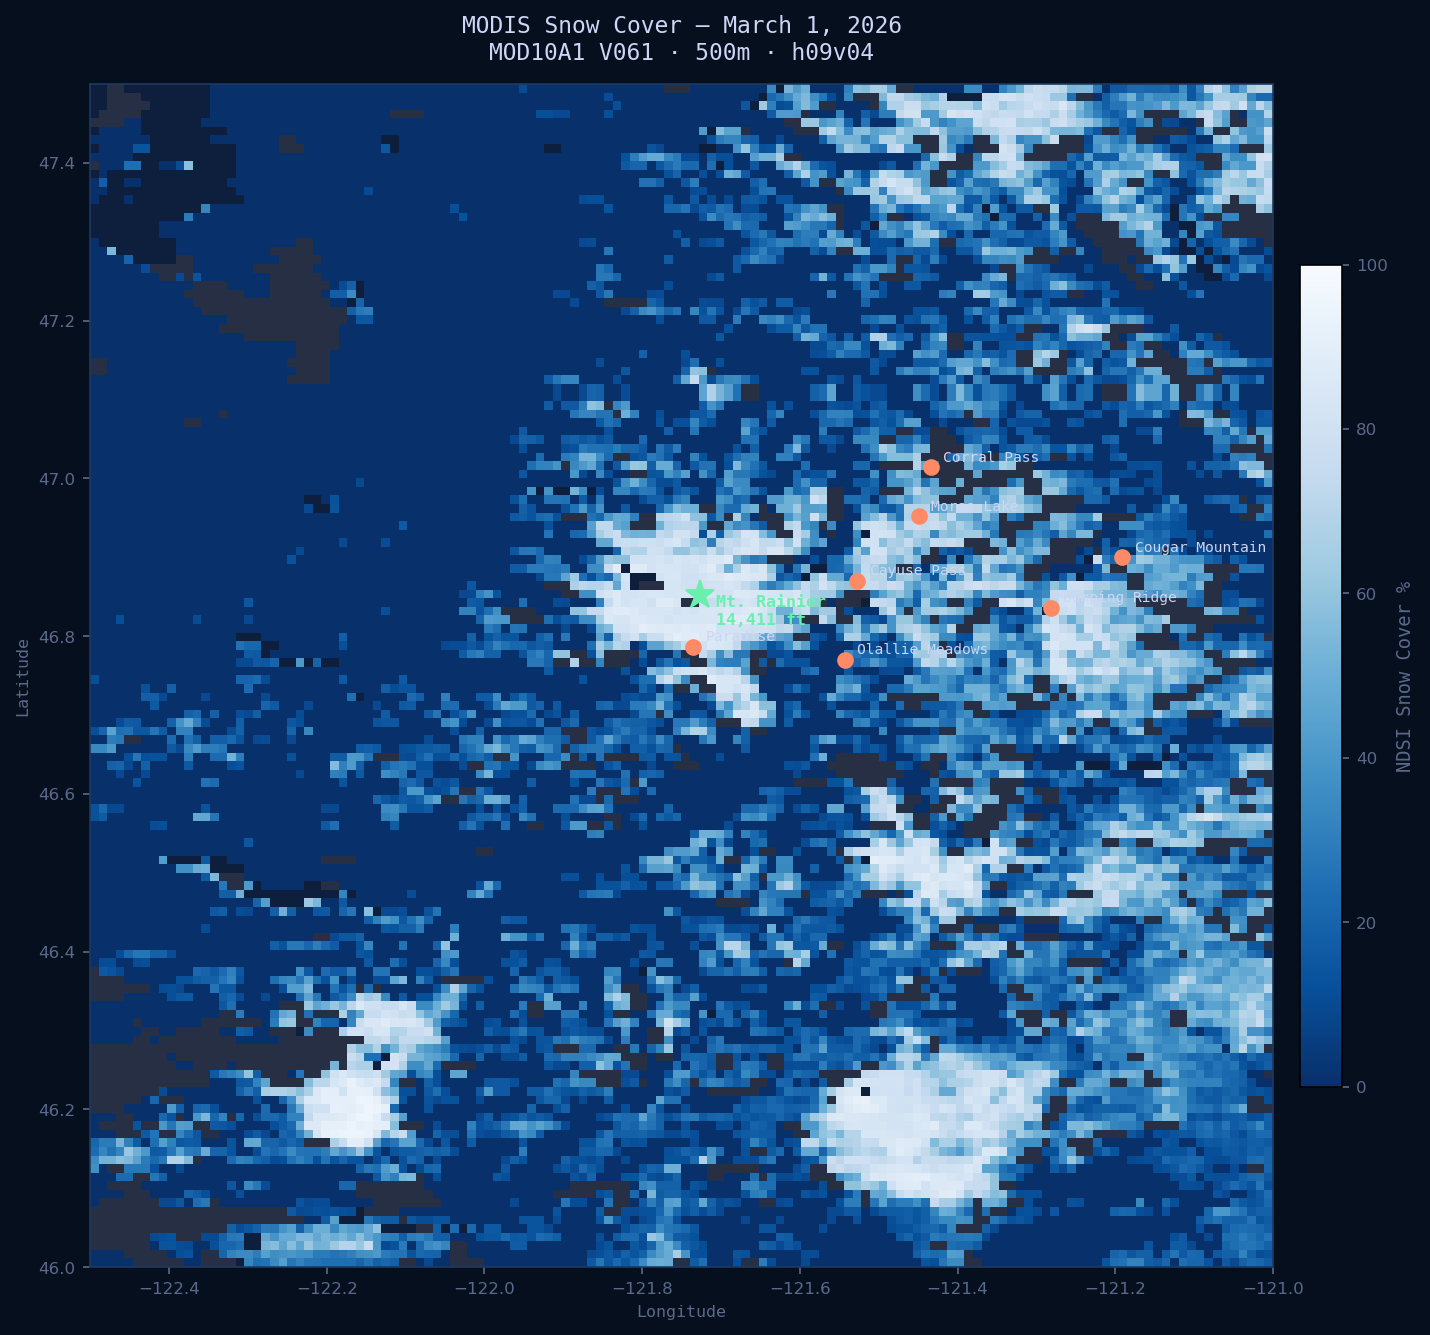
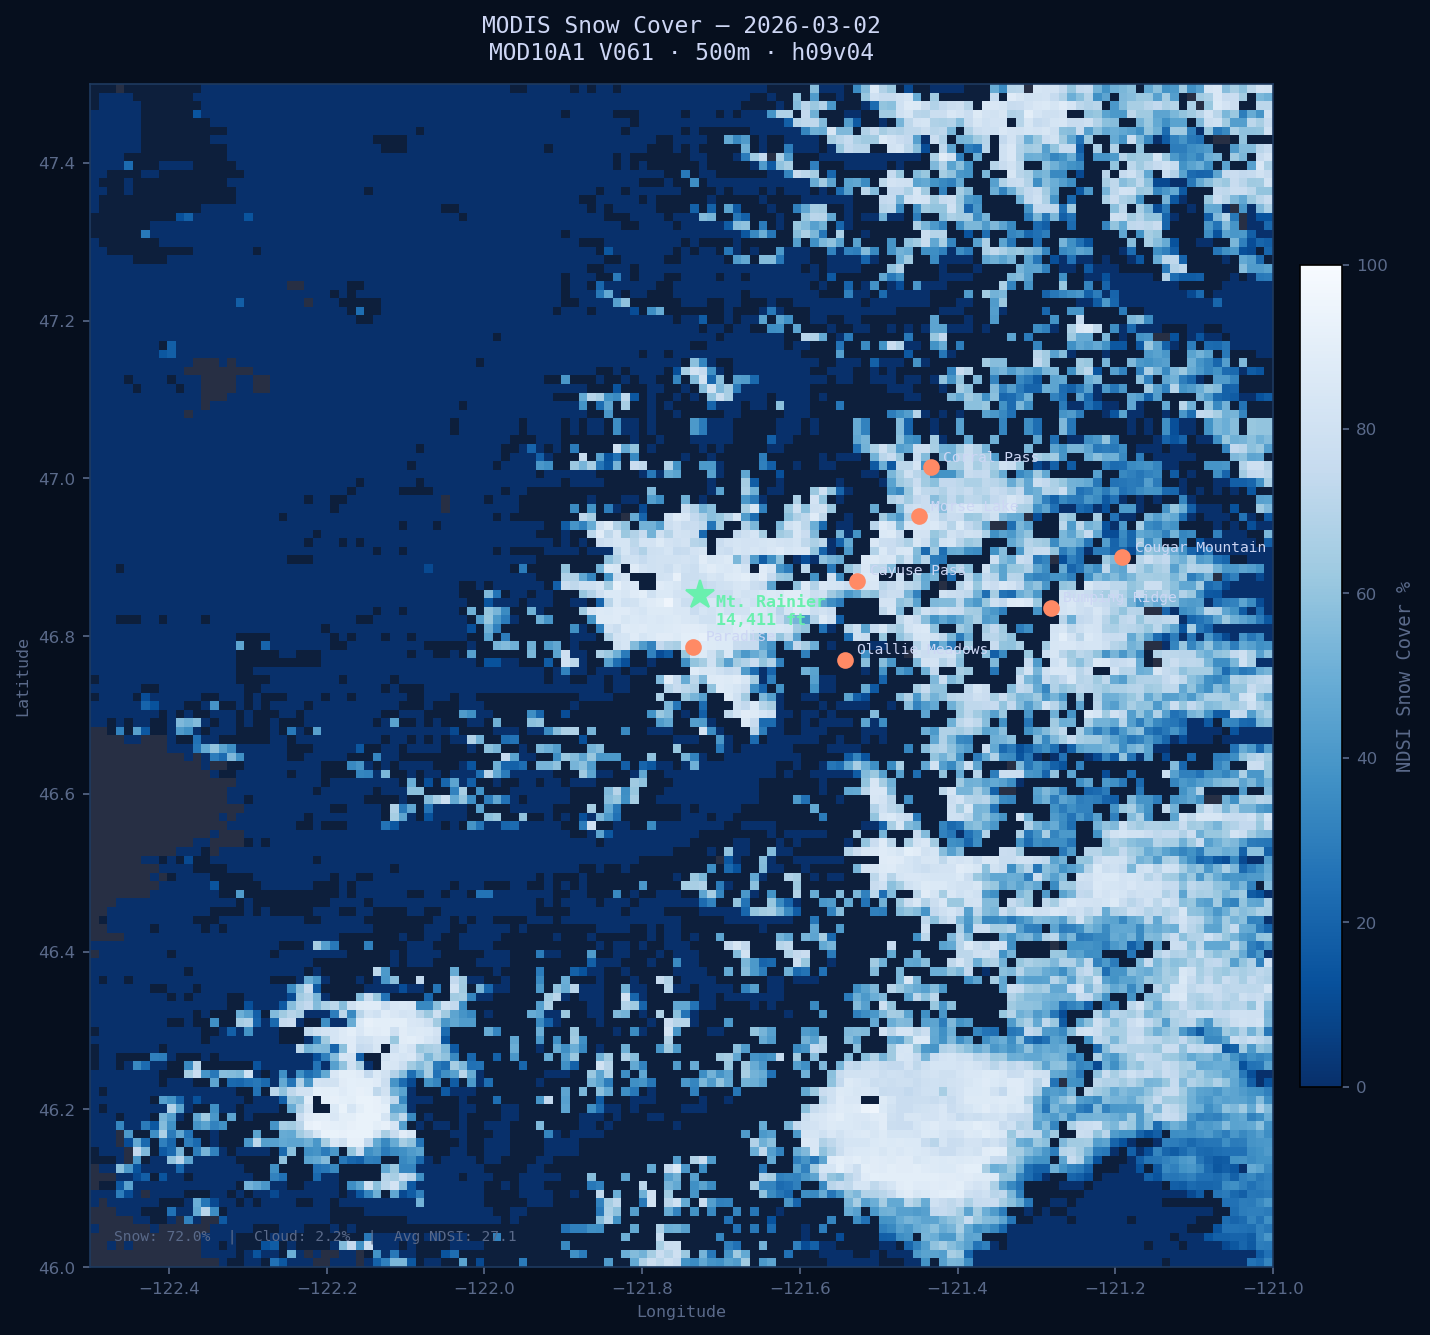
feat: MODIS snow cover automated pipeline, NASA Earthdata auth

diff --git a/src/python/fetch_modis.py b/src/python/fetch_modis.py
@@ -1,0 +1,296 @@
+"""
+fetch_modis.py
+Downloads the latest MODIS MOD10A1 V061 daily snow cover tile (h09v04)
+for the Mt. Rainier area, reprojects to WGS84, clips to Rainier bbox,
+generates a snow cover map PNG, and saves summary stats to JSON.
+
+Auth: NASA Earthdata credentials via C:/Users/<user>/_netrc or ~/.netrc
+CMR search is unauthenticated (public API).
+Authenticated session used only for protected file downloads.
+"""
+
+import json
+import logging
+import netrc
+import requests
+import numpy as np
+import matplotlib.pyplot as plt
+import matplotlib.colors as mcolors
+import rasterio
+from rasterio.warp import calculate_default_transform, reproject, Resampling
+from rasterio.windows import from_bounds
+from datetime import date, timedelta
+from pathlib import Path
+
+logging.basicConfig(level=logging.INFO, format="%(levelname)s  %(message)s")
+LOG = logging.getLogger(__name__)
+
+# ── Config ─────────────────────────────────────────────────────────────────
+CONCEPT_ID   = "C2565093311-NSIDC_CPRD"
+TILE         = "h09v04"
+RAINIER_BBOX = (-122.5, 46.0, -121.0, 47.5)
+
+RAW_DIR  = Path("data/raw/modis")
+PROC_DIR = Path("data/processed/modis")
+OUT_DIR  = Path("outputs")
+
+STATIONS = [
+    ("Paradise",        -121.735, 46.786),
+    ("Morse Lake",      -121.449, 46.952),
+    ("Cayuse Pass",     -121.527, 46.870),
+    ("Corral Pass",     -121.434, 47.014),
+    ("Bumping Ridge",   -121.282, 46.836),
+    ("Olallie Meadows", -121.543, 46.770),
+    ("Cougar Mountain", -121.191, 46.900),
+]
+
+
+def get_credentials():
+    """Read NASA Earthdata credentials from _netrc or .netrc."""
+    for netrc_path in [Path.home() / "_netrc", Path.home() / ".netrc"]:
+        if netrc_path.exists():
+            try:
+                creds = netrc.netrc(str(netrc_path))
+                auth = creds.authenticators("urs.earthdata.nasa.gov")
+                if auth:
+                    LOG.info("Credentials loaded from %s", netrc_path)
+                    return auth[0], auth[2]
+            except Exception as e:
+                LOG.warning("Could not read %s: %s", netrc_path, e)
+    raise FileNotFoundError("No netrc file with urs.earthdata.nasa.gov credentials found")
+
+
+def find_latest_granule(days_back=7):
+    """Search CMR (public, no auth) for most recent MOD10A1 granule over Rainier."""
+    end   = date.today()
+    start = end - timedelta(days=days_back)
+
+    LOG.info("Searching CMR: %s → %s ...", start, end)
+    r = requests.get(
+        "https://cmr.earthdata.nasa.gov/search/granules",
+        params={
+            "concept_id":   CONCEPT_ID,
+            "temporal":     f"{start},{end}",
+            "bounding_box": f"{RAINIER_BBOX[0]},{RAINIER_BBOX[1]},{RAINIER_BBOX[2]},{RAINIER_BBOX[3]}",
+            "page_size":    10,
+        },
+        headers={"Accept": "application/json"},
+    )
+    r.raise_for_status()
+    entries = r.json().get("feed", {}).get("entry", [])
+
+    tile_entries = [e for e in entries if TILE in e.get("title", "")]
+    if not tile_entries:
+        LOG.warning("No granules found for tile %s in last %d days", TILE, days_back)
+        return None, None
+
+    tile_entries.sort(key=lambda e: e["title"], reverse=True)
+    latest = tile_entries[0]
+    LOG.info("Latest granule: %s", latest["title"])
+
+    download_url = None
+    for link in latest.get("links", []):
+        href = link.get("href", "")
+        if "prod-protected" in href and href.endswith(".hdf"):
+            download_url = href
+            break
+
+    return latest["title"], download_url
+
+
+def download_granule(session, url, out_path):
+    """Download HDF file using authenticated requests session."""
+    if out_path.exists():
+        LOG.info("Already downloaded: %s", out_path.name)
+        return True
+
+    LOG.info("Downloading %s ...", url.split("/")[-1])
+    out_path.parent.mkdir(parents=True, exist_ok=True)
+
+    r = session.get(url, stream=True, timeout=120)
+    if r.status_code != 200:
+        LOG.error("Download failed: HTTP %s", r.status_code)
+        return False
+
+    with open(out_path, "wb") as f:
+        for chunk in r.iter_content(chunk_size=8192):
+            f.write(chunk)
+
+    LOG.info("Saved: %s (%.1f MB)", out_path.name, out_path.stat().st_size / 1e6)
+    return True
+
+
+def reproject_to_wgs84(hdf_path, tif_path):
+    """Reproject MODIS sinusoidal projection to WGS84 GeoTIFF."""
+    if tif_path.exists():
+        LOG.info("Already reprojected: %s", tif_path.name)
+        return
+
+    layer = f"HDF4_EOS:EOS_GRID:{hdf_path}:MOD_Grid_Snow_500m:NDSI_Snow_Cover"
+    LOG.info("Reprojecting to WGS84 ...")
+    tif_path.parent.mkdir(parents=True, exist_ok=True)
+
+    with rasterio.open(layer) as src:
+        transform, width, height = calculate_default_transform(
+            src.crs, "EPSG:4326", src.width, src.height, *src.bounds
+        )
+        kwargs = src.meta.copy()
+        kwargs.update({"crs": "EPSG:4326", "transform": transform,
+                       "width": width, "height": height, "driver": "GTiff"})
+
+        with rasterio.open(tif_path, "w", **kwargs) as dst:
+            reproject(
+                source=rasterio.band(src, 1),
+                destination=rasterio.band(dst, 1),
+                src_transform=src.transform,
+                src_crs=src.crs,
+                dst_transform=transform,
+                dst_crs="EPSG:4326",
+                resampling=Resampling.nearest,
+            )
+    LOG.info("Reprojected: %s", tif_path.name)
+
+
+def compute_stats(tif_path, obs_date):
+    """Compute snow cover stats clipped to Rainier bbox."""
+    with rasterio.open(tif_path) as ds:
+        window = from_bounds(*RAINIER_BBOX, ds.transform)
+        data   = ds.read(1, window=window)
+
+    snow_pixels  = data[(data >= 0) & (data <= 100)]
+    cloud_pixels = data[data == 250]
+    total_valid  = len(data[(data != 255) & (data != 239)])
+
+    pct_snow  = round(len(snow_pixels)  / total_valid * 100, 1) if total_valid > 0 else 0
+    pct_cloud = round(len(cloud_pixels) / total_valid * 100, 1) if total_valid > 0 else 0
+    avg_ndsi  = round(float(snow_pixels.mean()), 1) if len(snow_pixels) > 0 else 0
+
+    stats = {
+        "date":         str(obs_date),
+        "tile":         TILE,
+        "pct_snow":     pct_snow,
+        "pct_cloud":    pct_cloud,
+        "avg_ndsi":     avg_ndsi,
+        "snow_pixels":  int(len(snow_pixels)),
+        "cloud_pixels": int(len(cloud_pixels)),
+        "total_pixels": int(total_valid),
+    }
+
+    LOG.info("Snow: %.1f%% | Cloud: %.1f%% | Avg NDSI: %.1f", pct_snow, pct_cloud, avg_ndsi)
+    return stats
+
+
+def make_map(tif_path, stats, obs_date):
+    """Generate dark-themed snow cover map PNG."""
+    with rasterio.open(tif_path) as ds:
+        window = from_bounds(*RAINIER_BBOX, ds.transform)
+        data   = ds.read(1, window=window)
+
+    snow  = np.where((data >= 0) & (data <= 100), data.astype(float), np.nan)
+    cloud = np.where(data == 250, 1.0, np.nan)
+
+    fig, ax = plt.subplots(figsize=(10, 9))
+    fig.patch.set_facecolor("#060f1e")
+    ax.set_facecolor("#060f1e")
+
+    extent = [RAINIER_BBOX[0], RAINIER_BBOX[2], RAINIER_BBOX[1], RAINIER_BBOX[3]]
+
+    cmap_snow = plt.cm.Blues_r.copy()
+    cmap_snow.set_bad(color="#0d1f3c")
+    im = ax.imshow(snow, extent=extent, origin="upper", cmap=cmap_snow,
+                   vmin=0, vmax=100, interpolation="nearest")
+
+    cmap_cloud = mcolors.ListedColormap(["#3a3a4a"])
+    ax.imshow(cloud, extent=extent, origin="upper", cmap=cmap_cloud,
+              alpha=0.6, interpolation="nearest")
+
+    cbar = plt.colorbar(im, ax=ax, fraction=0.03, pad=0.02)
+    cbar.set_label("NDSI Snow Cover %", color="#5a6a8a", fontsize=9, fontfamily="monospace")
+    cbar.ax.yaxis.set_tick_params(color="#5a6a8a")
+    plt.setp(cbar.ax.yaxis.get_ticklabels(), color="#5a6a8a", fontsize=8)
+
+    for name, lon, lat in STATIONS:
+        ax.plot(lon, lat, "o", color="#ff8a65", markersize=7, zorder=5)
+        ax.annotate(name, (lon, lat), textcoords="offset points", xytext=(6, 3),
+                    color="#cdd6f4", fontsize=7, fontfamily="monospace")
+
+    ax.plot(-121.7269, 46.8523, "*", color="#69f0ae", markersize=14, zorder=6)
+    ax.annotate("Mt. Rainier\n14,411 ft", (-121.7269, 46.8523),
+                textcoords="offset points", xytext=(8, -14),
+                color="#69f0ae", fontsize=8, fontfamily="monospace", fontweight="bold")
+
+    ax.text(0.02, 0.02,
+            f"Snow: {stats['pct_snow']}%  |  Cloud: {stats['pct_cloud']}%  |  Avg NDSI: {stats['avg_ndsi']}",
+            transform=ax.transAxes, color="#5a6a8a", fontsize=7,
+            fontfamily="monospace", va="bottom")
+
+    ax.set_title(f"MODIS Snow Cover — {obs_date}\nMOD10A1 V061 · 500m · {TILE}",
+                 color="#cdd6f4", fontsize=11, fontfamily="monospace", pad=12)
+    ax.set_xlabel("Longitude", color="#5a6a8a", fontsize=8, fontfamily="monospace")
+    ax.set_ylabel("Latitude",  color="#5a6a8a", fontsize=8, fontfamily="monospace")
+    ax.tick_params(colors="#5a6a8a", labelsize=8)
+    for spine in ax.spines.values():
+        spine.set_edgecolor("#1e3a5f")
+
+    plt.tight_layout()
+    OUT_DIR.mkdir(exist_ok=True)
+    out_png = OUT_DIR / "modis_snow_cover.png"
+    plt.savefig(out_png, dpi=150, bbox_inches="tight",
+                facecolor="#060f1e", edgecolor="none")
+    plt.close()
+    LOG.info("Map saved: %s", out_png)
+    return out_png
+
+
+def main():
+    LOG.info("=== MODIS Snow Cover Fetch ===")
+
+    # Credentials for download only
+    username, password = get_credentials()
+    LOG.info("Authenticated as: %s", username)
+    session = requests.Session()
+    session.auth = (username, password)
+
+    # Search CMR (no auth needed)
+    title, download_url = find_latest_granule()
+    if not download_url:
+        LOG.error("No download URL found!")
+        raise SystemExit(1)
+
+    # Parse observation date from title e.g. MOD10A1.A2026060 = day 60 of 2026
+    year     = int(title[9:13])
+    doy      = int(title[13:16])
+    obs_date = date(year, 1, 1) + timedelta(days=doy - 1)
+    LOG.info("Observation date: %s", obs_date)
+
+    # Download
+    hdf_path = RAW_DIR / f"MOD10A1.A{year}{doy:03d}.{TILE}.hdf"
+    if not download_granule(session, download_url, hdf_path):
+        raise SystemExit(1)
+
+    # Reproject
+    tif_path = PROC_DIR / f"snow_cover_{obs_date}.tif"
+    reproject_to_wgs84(hdf_path, tif_path)
+
+    # Stats + JSON
+    stats = compute_stats(tif_path, obs_date)
+    PROC_DIR.mkdir(parents=True, exist_ok=True)
+    (PROC_DIR / "modis_latest.json").write_text(json.dumps(stats, indent=2))
+
+    # Map
+    make_map(tif_path, stats, obs_date)
+
+    print("\n" + "="*55)
+    print(f"  MODIS Snow Cover — {obs_date}")
+    print("="*55)
+    print(f"  Snow cover:   {stats['pct_snow']}% of Rainier bbox")
+    print(f"  Cloud cover:  {stats['pct_cloud']}%")
+    print(f"  Avg NDSI:     {stats['avg_ndsi']}")
+    print(f"  Snow pixels:  {stats['snow_pixels']:,}")
+    print("="*55)
+
+    LOG.info("=== Done! ===")
+
+
+if __name__ == "__main__":
+    main()
